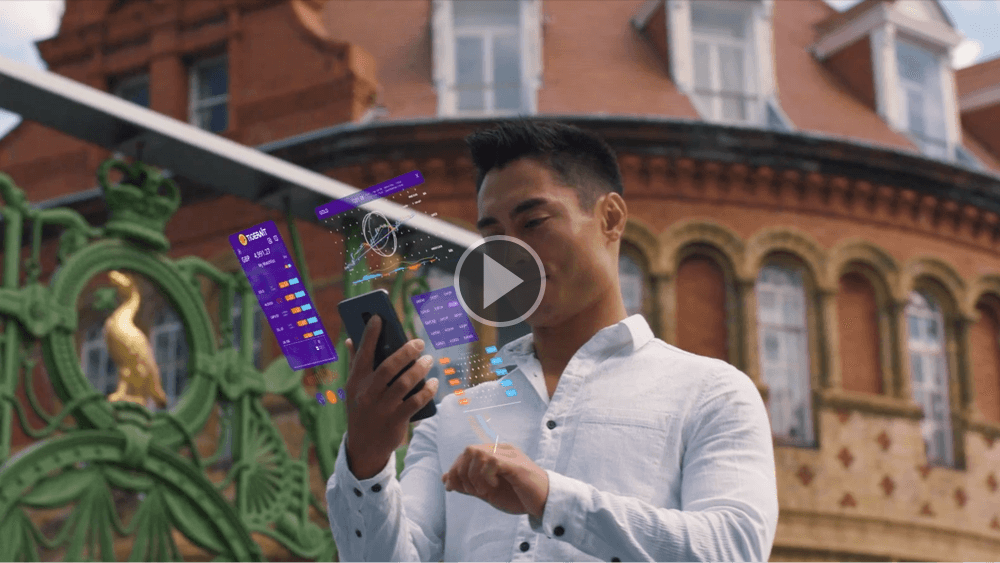
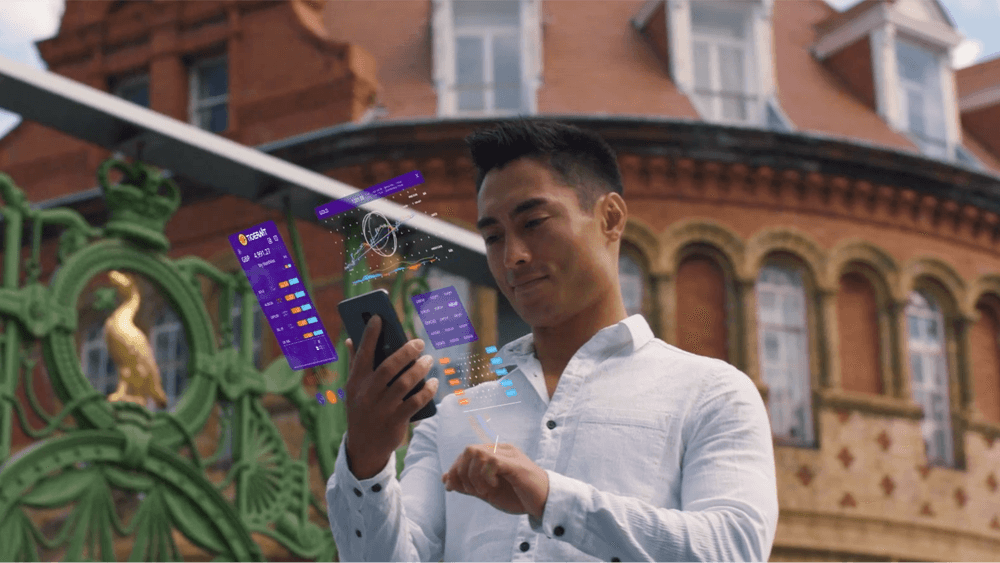
liverpool视频改为本地播放

diff --git a/client/views/web/about/liverpool.html b/client/views/web/about/liverpool.html
@@ -16,9 +16,7 @@
                 </div>
                 <div>
                     <p>
-                    <span>“</span> &nbsp;&nbsp;&nbsp;&nbsp;warveood amouncets partnership with Liverpool FC. TigerWit believes in a market that does not disriminate or play favorites.
-                    trust by dolivering groator socurity and procoss effciency. Trading should be, and can be, more transparent and fair for all traders. ragardless of
-                    experience or the size oftheir accunt.<span>”</span>
+                    <span>“</span>&nbsp;&nbsp;&nbsp;&nbsp;Today is a proud day for TigerWit, we are launching our innovative blockchain-based trading app and partnering with Liverpool FC. TigerWit believes in a market that does not discriminate or play favourites. We have developed a pioneering blockchain-based settlement system that instills trust by delivering greater security and process efficiency. Trading should be, and can be, more transparent and fair for all traders, regardless of experience or the size of their account.<span>”</span>
                     </p>
                 </div>
                 <div class="signature">
@@ -33,9 +31,7 @@
                 </div>
                 <div>
                     <p>
-                    <span>“</span>&nbsp;&nbsp;&nbsp;&nbsp;As our ofiali Online Foreign Exhange Trading Partner, we are very excited to develop our partnership with TigerWit.
-                    "Liverpool FC has a large number of fans across the globe, particularly in TigerWit's core markets in the UK, Europe and Asia. Through this new partnership
-                    with TigerWit, we look forward to marketing activations, which help bring our fans around the world even closer to the Club.<span>”</span>
+                    <span>“</span>&nbsp;&nbsp;&nbsp;&nbsp;As our official Online Foreign Exchange Trading Partner, we are very excited to develop our partnership with TigerWit. Liverpool FC has a large number of fans across the globe, particularly in TigerWit’s core markets in the UK, Europe and Asia. Through this new partnership with TigerWit, we look forward to marketing activations, which help bring our fans around the world even closer to the Club.<span>”</span>
                     </p>
                 </div>
                 <div class="signature">
@@ -50,13 +46,19 @@
         <div class="liverpool__visit">
             <img src="/images/web/liverpool-crest.png" alt="">
             <div class="liverpool__visit-btn">
-                <a target="_blank" href="https://www.liverpoolfc.com/welcome-to-liverpool-fc">Visit LiverPool FC</a>
+                <a target="_blank" href="https://www.liverpoolfc.com/welcome-to-liverpool-fc">Visit Liverpool FC</a>
             </div>
         </div>
 
         <div class="liverpool__videoBox">
             <div>
-                <a href="https://www.youtube.com/watch?v=dCYLhHccYwY" target="_blank"><img src="/images/web/liverpool-play.png" alt=""></a>
+                <video height="400" controls autobuffer poster="/images/web/liverpool-play.png">
+                    <source src="https://static.tigerwitfx.com/downloads/static/video/FINAL_Trading_Evolved_30_Second_H264.mp4" type="video/mp4" />
+                    <!-- <source src="my_video.ogv" type="video/ogg" />
+                    <source src="my_video.webm" type="video/webm" /> -->
+                    你浏览器不支持 video 功能，点击这里下载视频：<a href="https://static.tigerwitfx.com/downloads/static/video/FINAL_Trading_Evolved_30_Second_H264.mp4">下载视频</a>
+                </video>
+                <!-- <a href="https://www.youtube.com/watch?v=dCYLhHccYwY" target="_blank"><img src="/images/web/liverpool-play.png" alt=""></a> -->
             </div>
         </div>
     </div>
